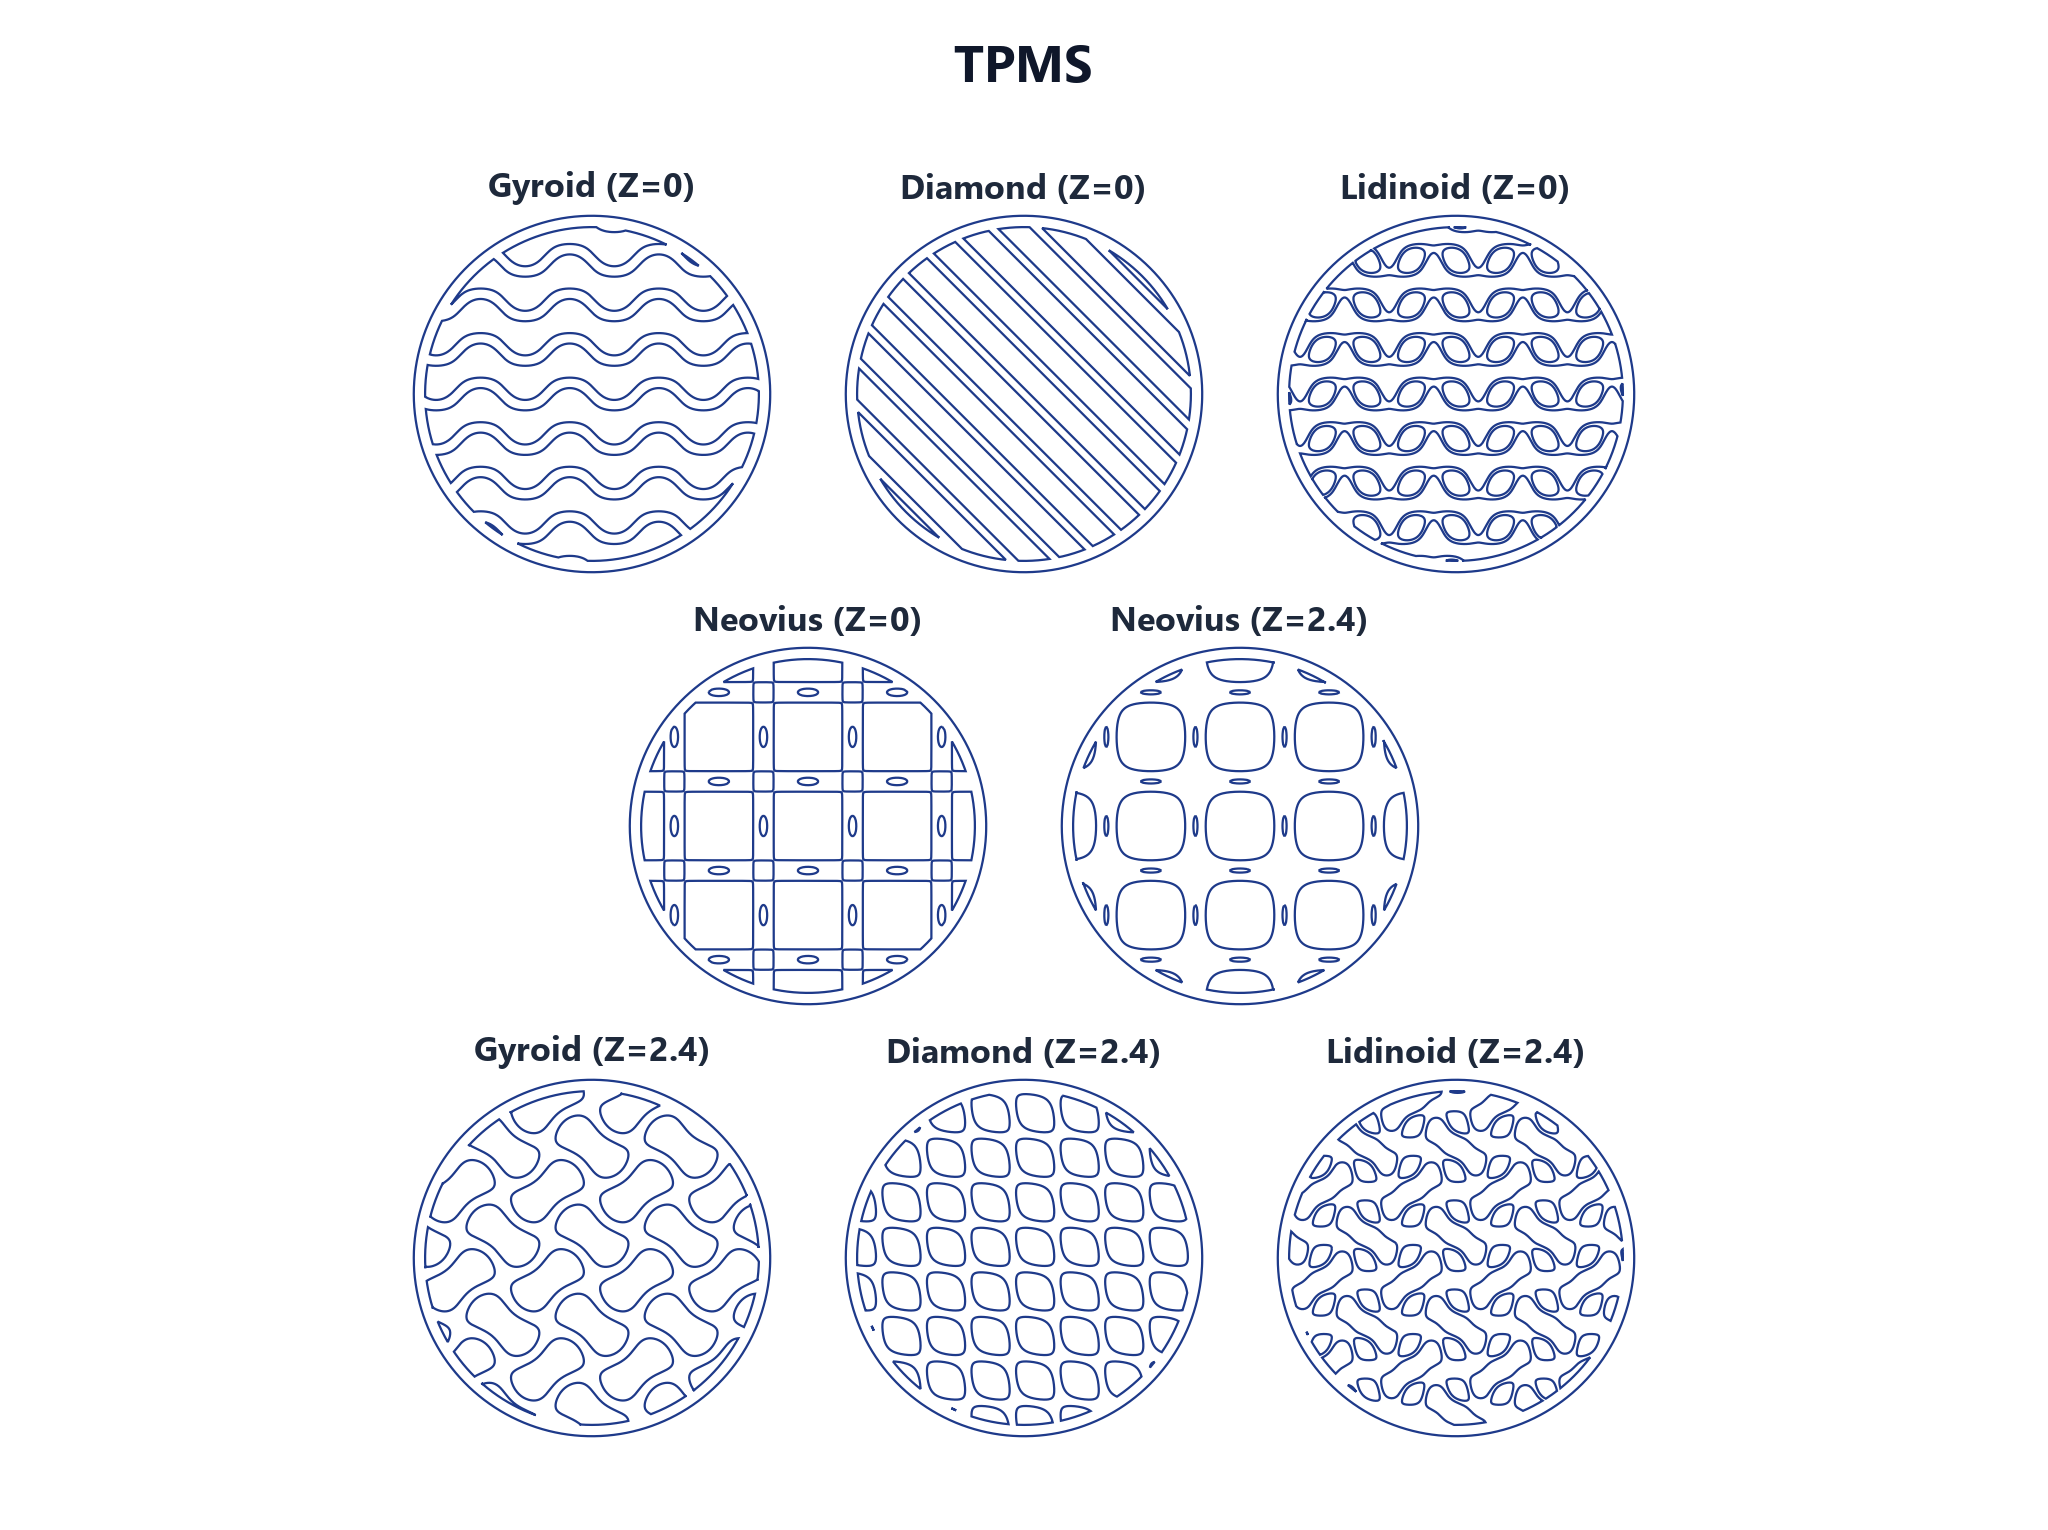
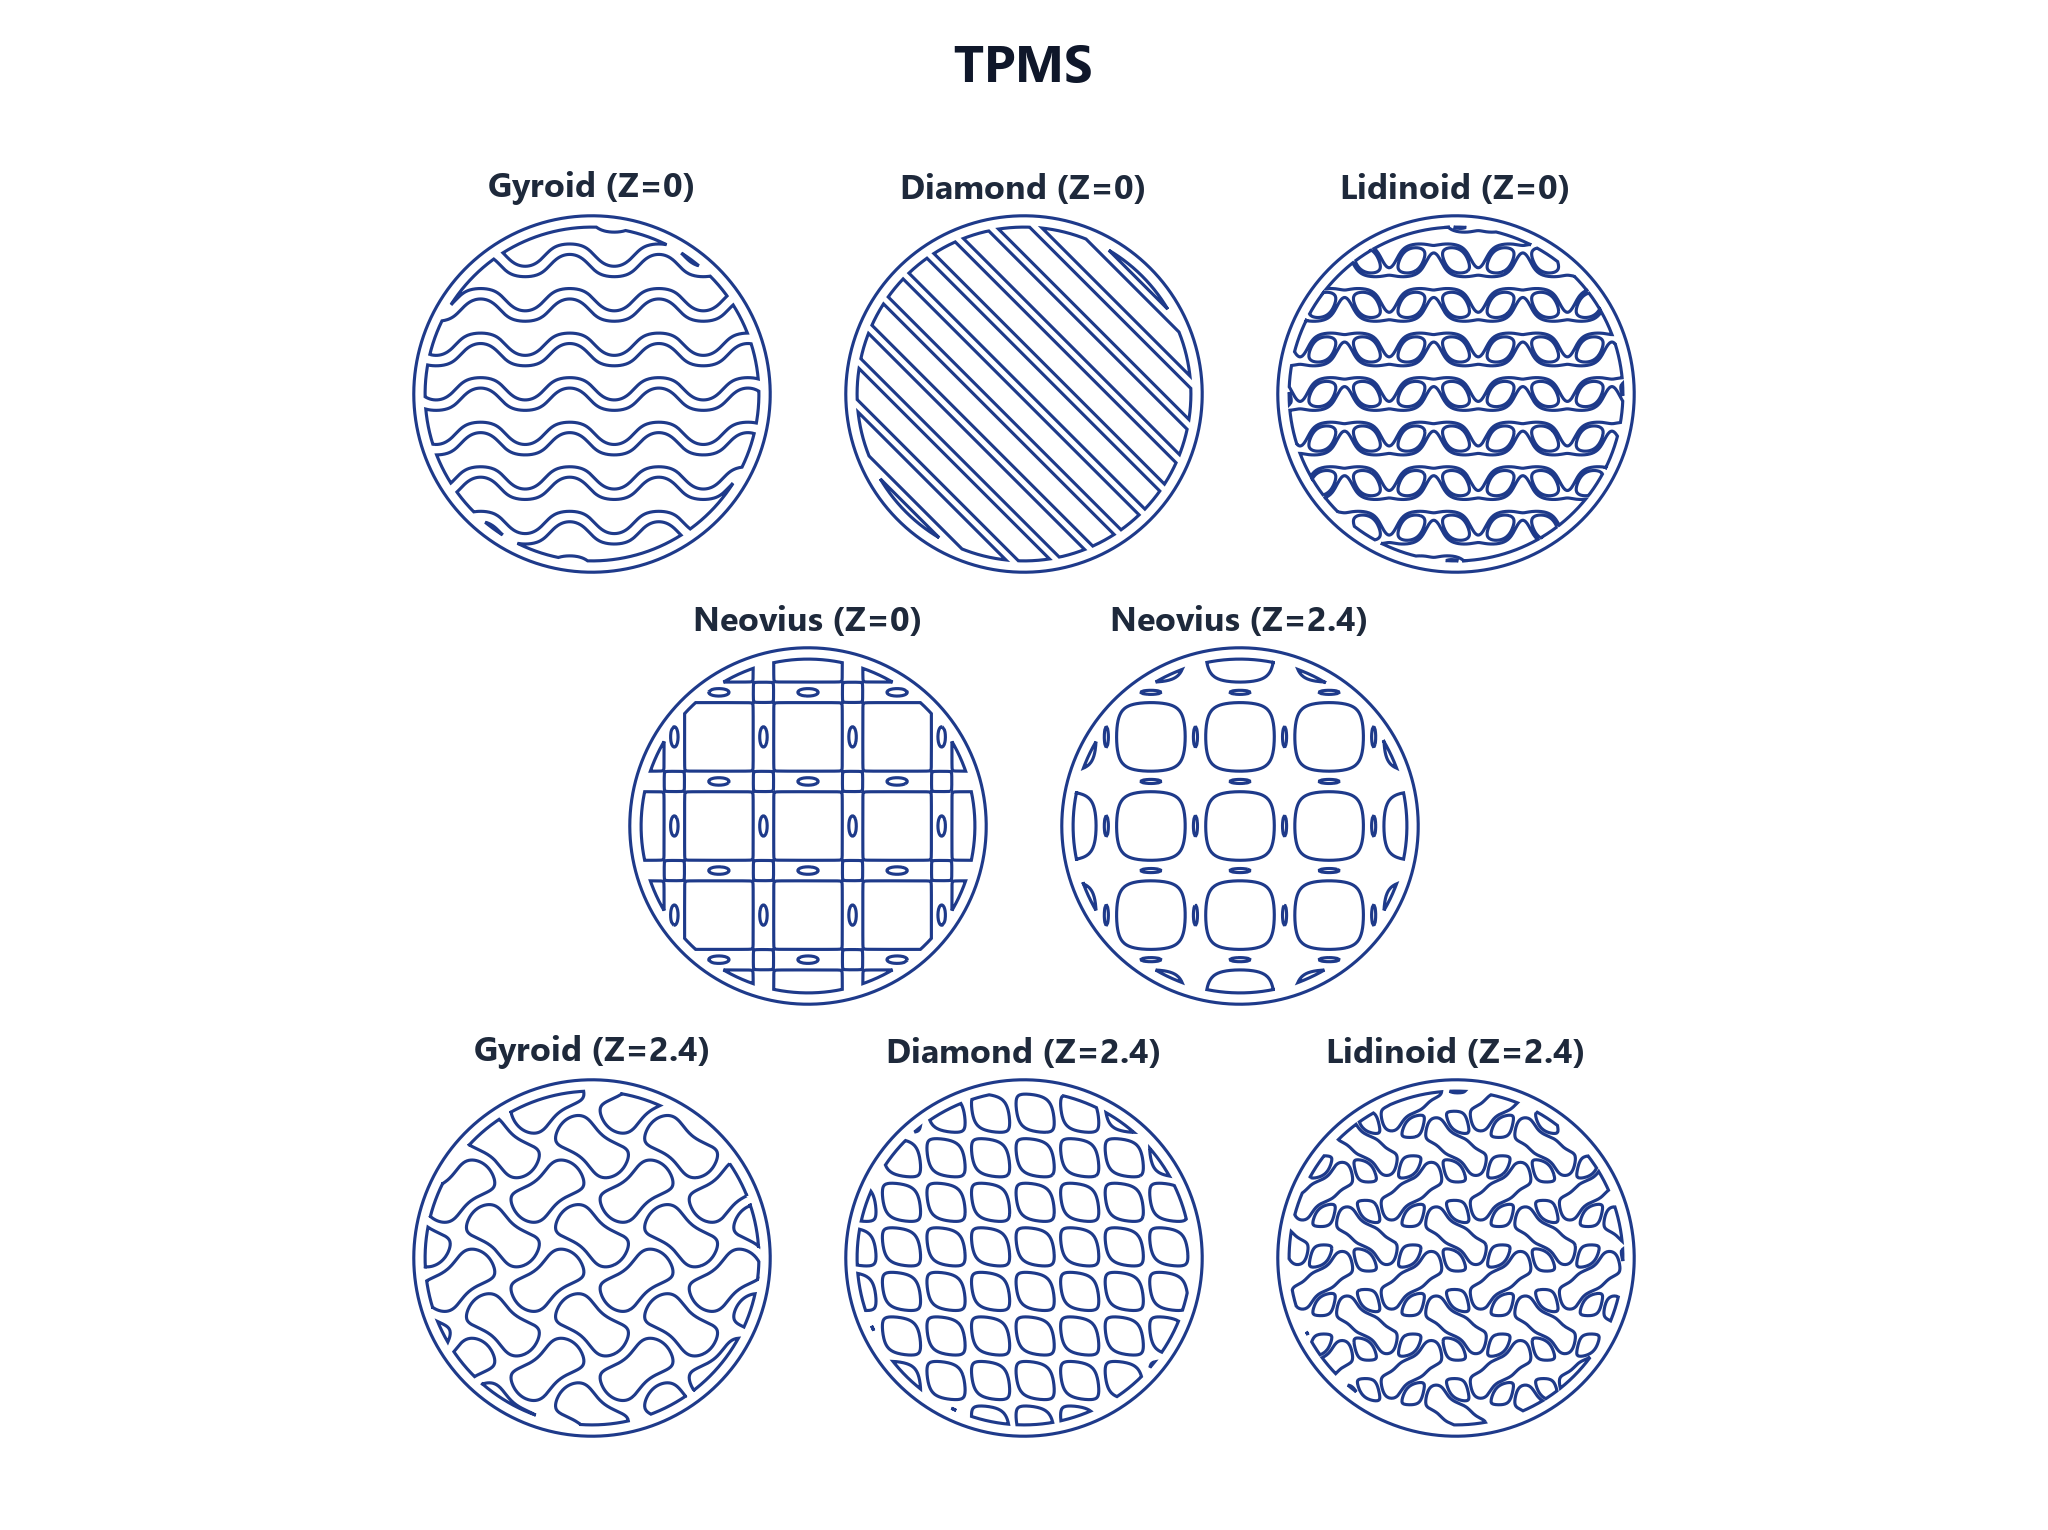
feat(coasters): increase TPMS blue outline linewidth to 2.5

diff --git a/scripts/coasters/generate_deliverable_figures.py b/scripts/coasters/generate_deliverable_figures.py
@@ -603,6 +603,7 @@ def save_all_variants(
     pad_above,
     stem_name,
     render_dim=750,
+    outline_linewidth=1.8,
 ):
     """Save Black (#141416), Lighter Blue (#3b66b0), and Blue Outline (#1e3a8a) deliverable figures."""
     # 1. Black solid variant (#141416)
@@ -633,9 +634,9 @@ def save_all_variants(
     canvas_blue.save(out_blue, quality=95)
     print(f"  Saved (Blue):    {out_blue}")
 
-    # 3. Blue Outline variant (#1e3a8a, original outline style with slightly thicker lines)
+    # 3. Blue Outline variant (#1e3a8a, original outline style)
     outline_items = [
-        (label, render_polygon_outline_to_image(poly, coaster_size_px, "#1e3a8a", linewidth=1.8))
+        (label, render_polygon_outline_to_image(poly, coaster_size_px, "#1e3a8a", linewidth=outline_linewidth))
         for label, poly in poly_items
     ]
     canvas_outline = compose_deliverable_canvas(
@@ -672,6 +673,7 @@ def make_c15_a15_figure():
         pad_above=12,
         stem_name="c15_a15_previews",
         render_dim=750,
+        outline_linewidth=1.8,
     )
 
 
@@ -696,6 +698,7 @@ def make_voroni_figure():
         pad_above=12,
         stem_name="voroni_previews",
         render_dim=750,
+        outline_linewidth=1.8,
     )
 
 
@@ -724,6 +727,7 @@ def make_explicit_figure():
         pad_above=10,
         stem_name="explicit_previews",
         render_dim=650,
+        outline_linewidth=1.8,
     )
 
 
@@ -751,6 +755,7 @@ def make_tpms_figure():
         pad_above=10,
         stem_name="tpms_previews",
         render_dim=600,
+        outline_linewidth=2.5,
     )
 
 
